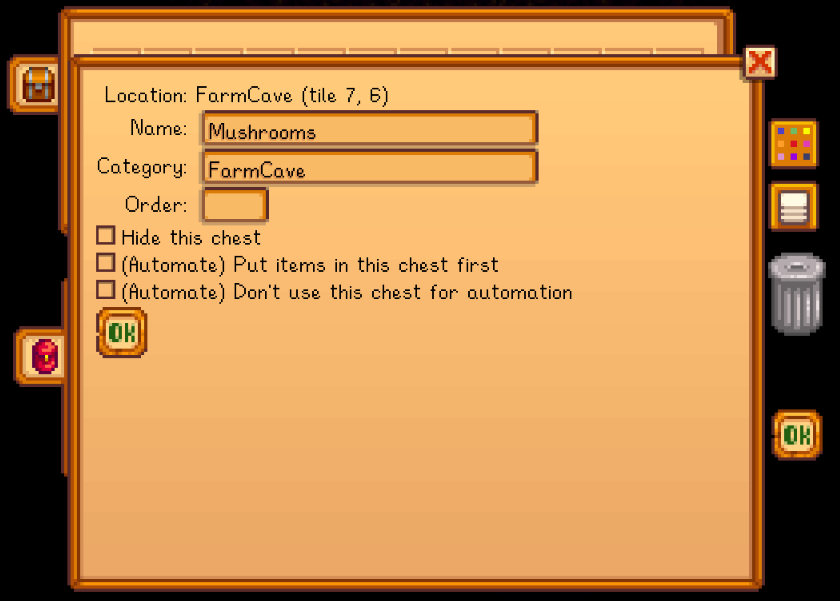
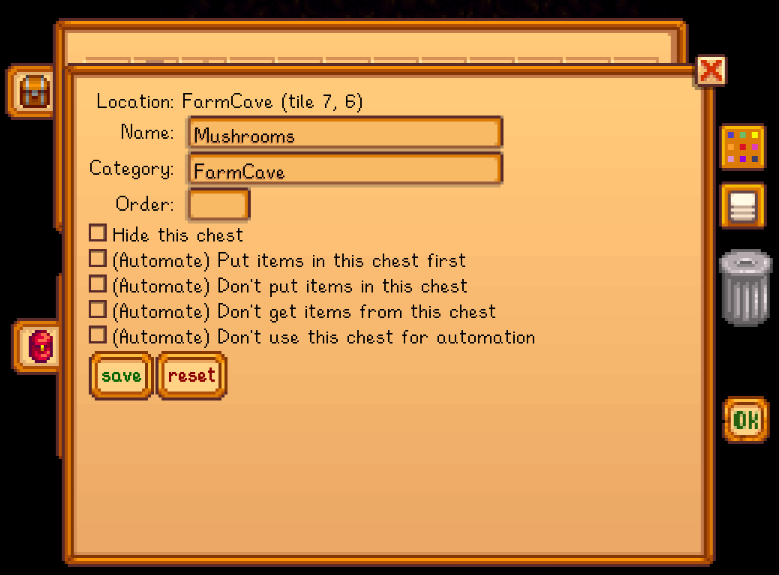
update readme (#389)

Changed region(s): [[0.0, 0.0, 1.0, 1.0]]

diff --git a/Automate/README.md b/Automate/README.md
@@ -174,9 +174,11 @@ Installing [Chests Anywhere](https://www.nexusmods.com/stardewvalley/mods/518) t
 per-chest options directly in-game:
 > ![](screenshots/chests-anywhere-config.png)
 
-This adds two options for automate:
-* **Put items in this chest first:** when choosing a chest to place processed items, put them in
-  this chest before any others (until it's full).
+This adds four options for automate:
+* **Put items in this chest first:** Automate will only push machine output into this chest (until
+  it's full).
+* **Don't put items in this chest:** Automate won't push any machine output into this chest.
+* **Don't take items from this chest:** Automate won't take machine input from this chest.
 * **Don't use this chest for automation:** Automate will completely ignore the chest, so it won't
   be connected to any machines.
 
